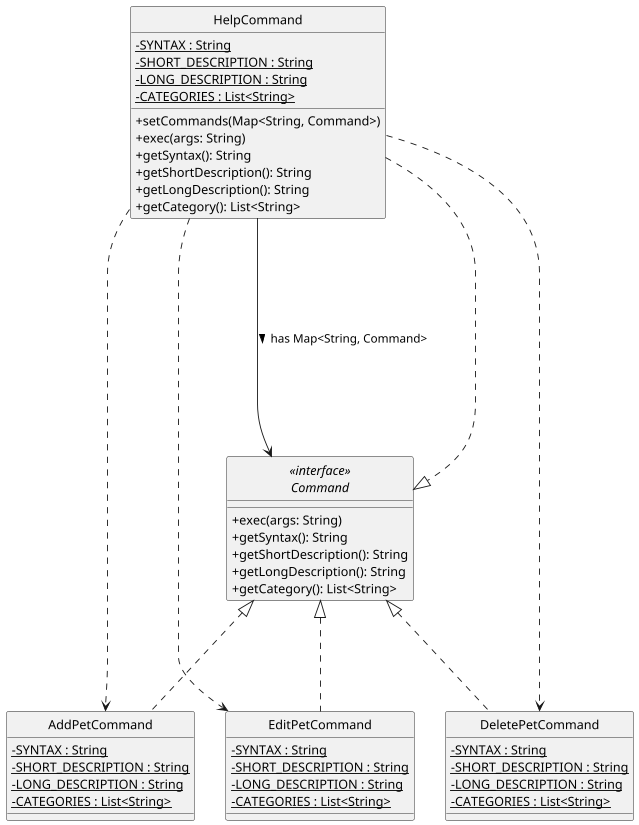
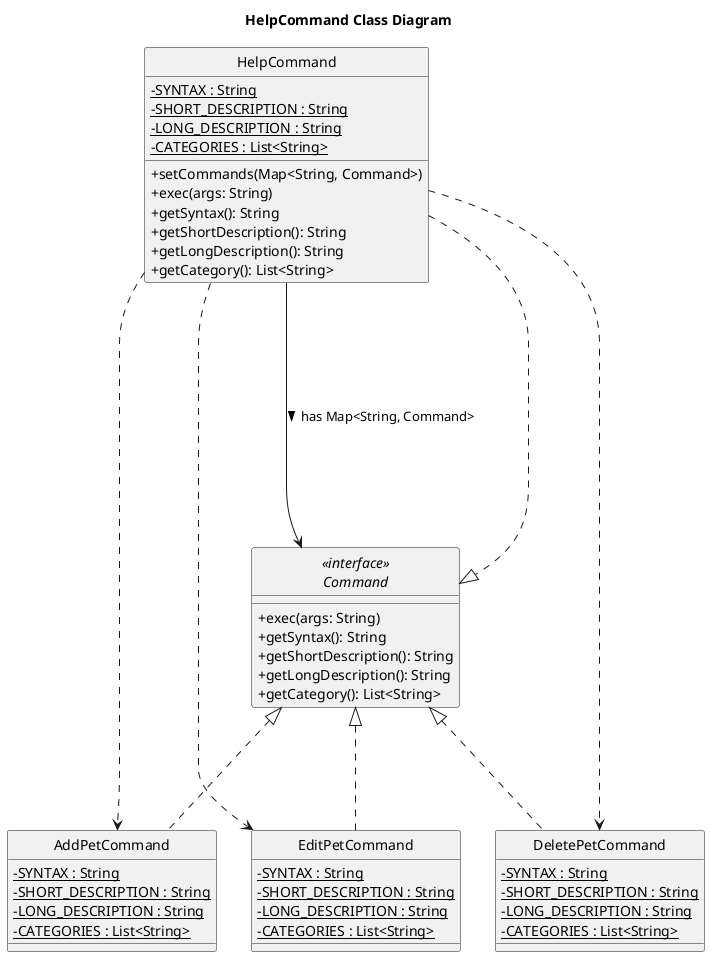
Update the DG with Help Command

diff --git a/docs/DeveloperGuide.md b/docs/DeveloperGuide.md
@@ -390,7 +390,38 @@ group-treatments-by-type
 ### Feature: Summary
 {add details here}
 
-### Feature: Help to view all commands
+### Feature: Help Command
+![HelpCommand Class Diagram](diagrams/HelpCommand_Class_Diagram.png)  
+The HelpCommand provides users with guidance on available commands in the application. It can either display all commands grouped by category or show detailed information for a specific command using the optional `c/COMMAND_NAME` argument.
+
+This feature follows the **Command Pattern**, encapsulating all help-related logic in its own class that implements the `Command` interface. The HelpCommand depends on a map of all commands (`Map<String, Command>`) that is set via `setCommands(Map)`.
+
+**Execution flow**:
+![HelpCommand Sequence Diagram](diagrams/HelpCommand_Sequence_Diagram.png)
+1. The command is executed via `exec(String args)`.
+2. Parses optional argument `c/COMMAND_NAME` to determine if help for a specific command is requested.
+3. Validates the argument:
+    - If the syntax is invalid, prints the help command syntax.
+    - If a specific command is requested but not found, prints an error message.
+4. If a valid command name is provided, prints detailed information including:
+    - Command name
+    - Category
+    - Long description
+    - Syntax
+5. If no command name is provided, prints all commands grouped by their category, respecting a predefined order (`General`, `Pet`, `Treatment`) and sorting remaining categories alphabetically.
+
+**Design Considerations**:
+
+- Uses **Dependency Injection** to receive the `commandsMap`, making it testable.
+- Categorizes commands dynamically using streams and collectors.
+- Supports optional arguments via a tag-based parsing mechanism (`c/COMMAND_NAME`).
+- Logs command execution, invalid syntax, and missing commands for monitoring.
+
+**Logging**:
+
+- `INFO` on command execution, printing all commands or specific command.
+- `INFO` on invalid syntax or missing command.
+- Maintains clear separation of concerns between argument parsing, categorization, and printing.
 
 ### Feature: Exit
 {add details here}
